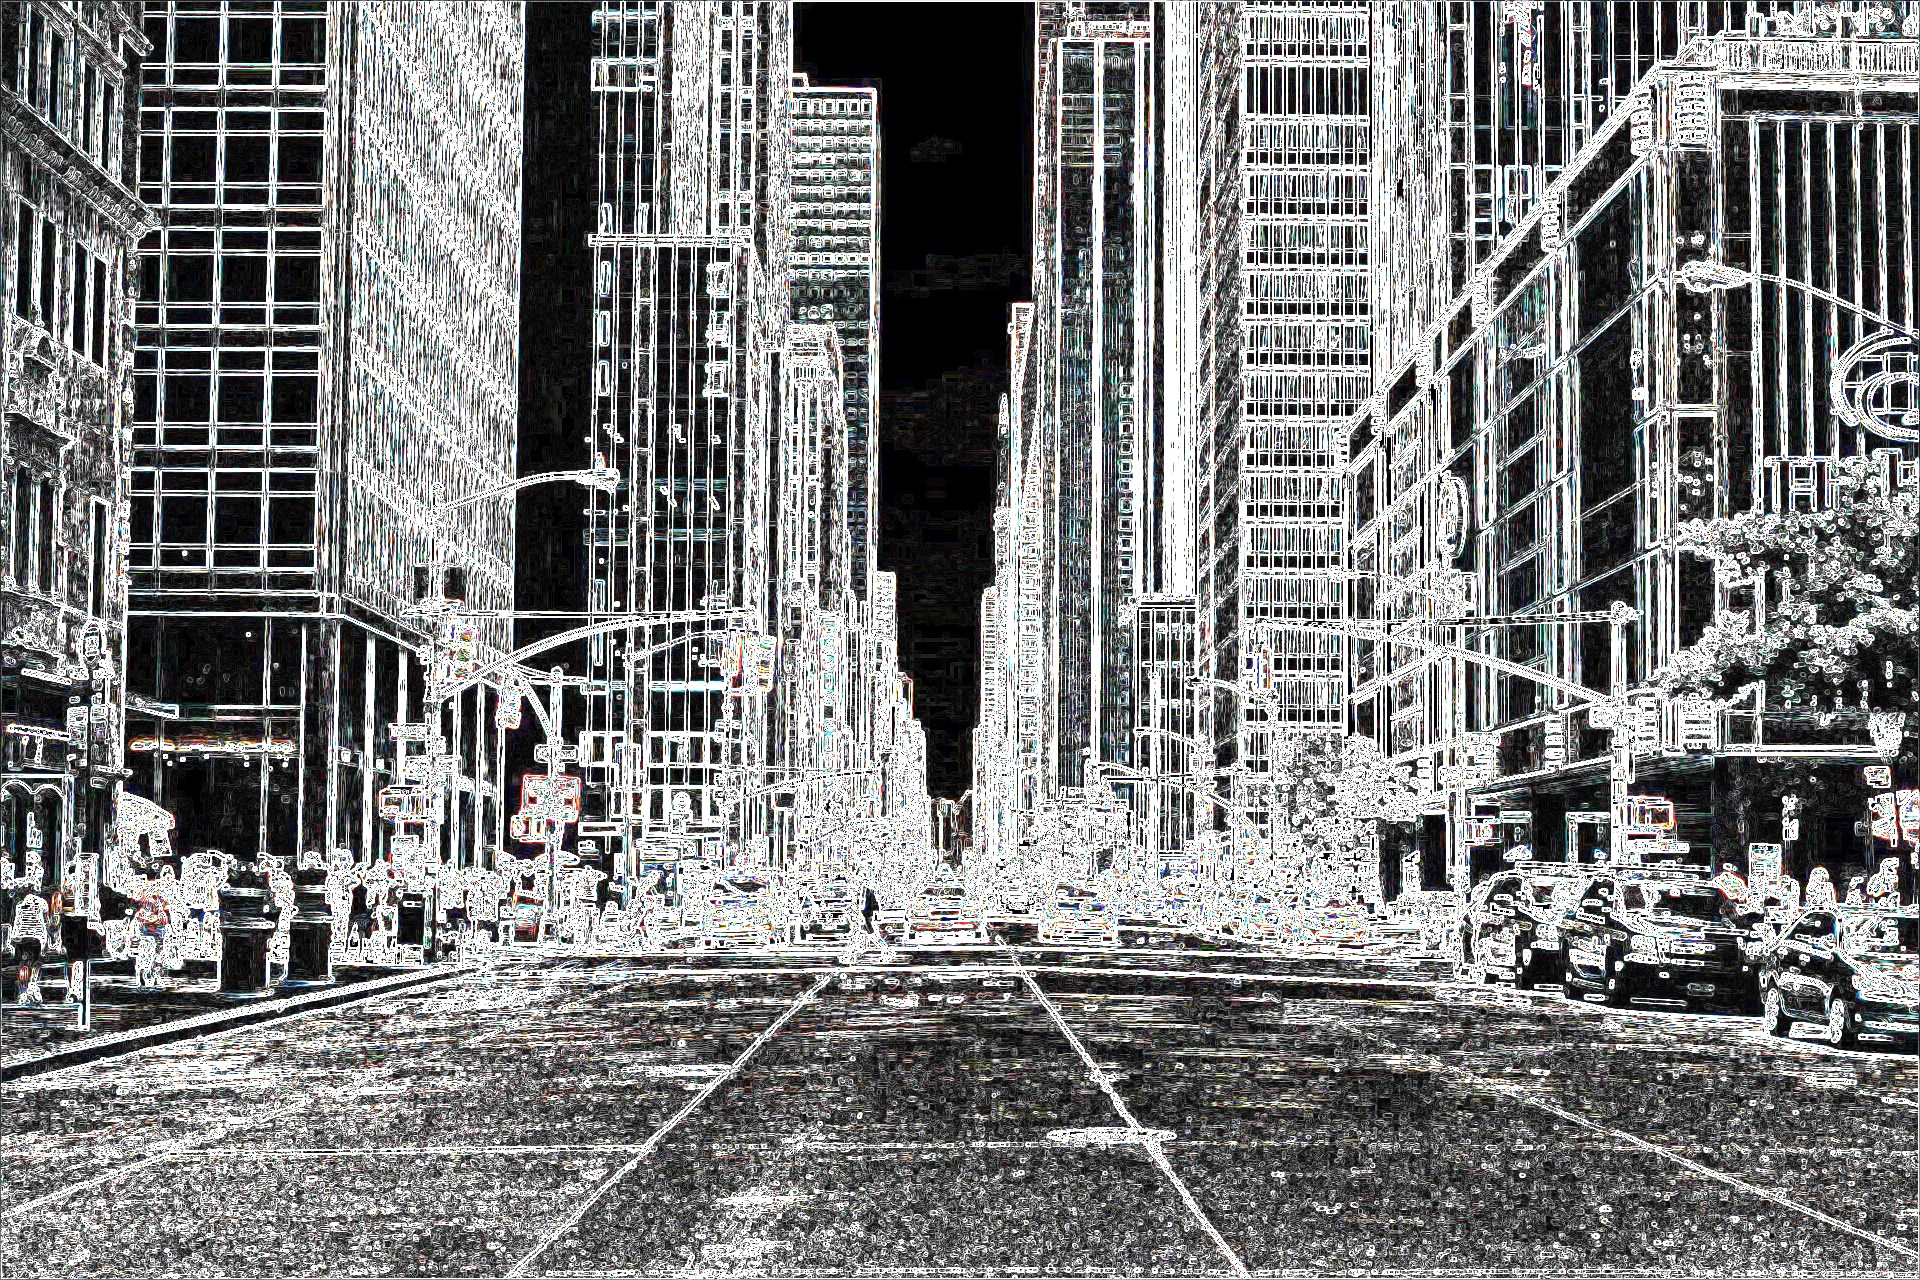
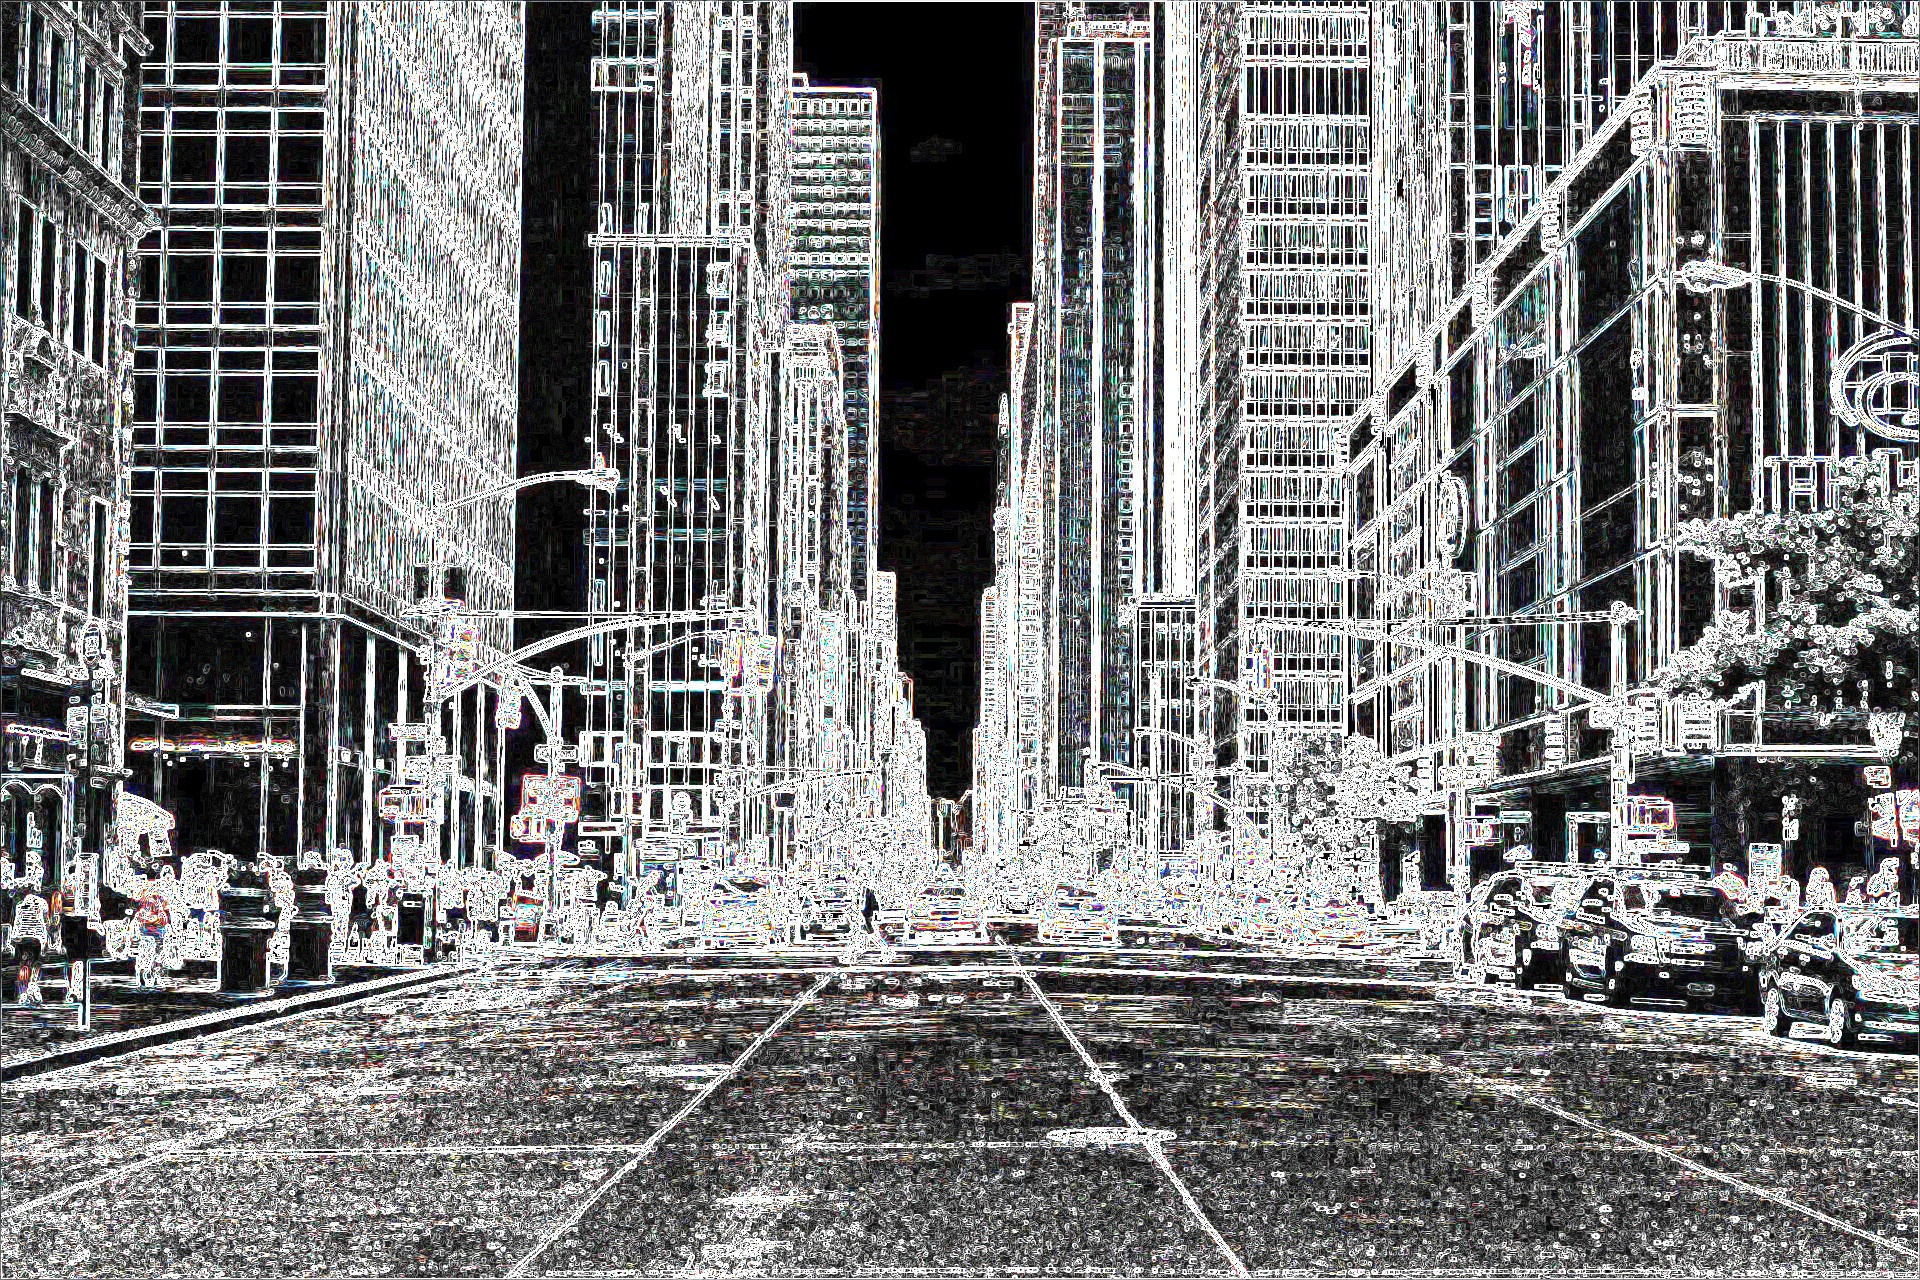
build: configure android environment

diff --git a/cli/src/main.cpp b/cli/src/main.cpp
@@ -11,7 +11,7 @@ int main(int argc, char** argv)
     }
 
     try {
-        std::unique_ptr<Image> pImage = ImageProcessor::loadImage("/Users/atovarpardo/Documents/Code/Sobel/media/input_sample.jpg");
+        std::unique_ptr<Image> pImage = ImageProcessor::loadImage("C:/CODE2/Sobel/media/input_sample.jpg");
         if(pImage == nullptr) return -1;
 
         std::unique_ptr<FilterBase> pFilter = FilterSelector::createFilter(filterName);
@@ -22,7 +22,7 @@ int main(int argc, char** argv)
             std::cerr << "Null filter selected" << std::endl;
         }
 
-        if(!ImageProcessor::saveImage("/Users/atovarpardo/Documents/Code/Sobel/media/output_sample.jpg", outputImage)) return -1;
+        if(!ImageProcessor::saveImage("C:/CODE2/Sobel/media/output_sample.jpg", outputImage)) return -1;
 
     } catch (const std::exception& e) {
         std::cerr << "Execution error: " << e.what() << std::endl;

diff --git a/README.md b/README.md
@@ -12,19 +12,7 @@ Sobel project can be compiled with
 ```bash
 mkdir build
 cd build
-conan install .. --output-folder=. -g CMakeDeps -g CMakeToolchain --build=missing -r conancenter
-cmake .. -DCMAKE_POLICY_DEFAULT_CMP0091="NEW" -DCMAKE_TOOLCHAIN_FILE="build/generators/conan_toolchain.cmake" -G "Visual Studio 17 2022" 
+cmake .. -DCMAKE_BUILD_TYPE=Release
 cmake --build . --config Release
 ```
-
-## Compilation without Conan (Using system libraries)
-
-If Conan is not used, one must install the dependencies on his own. It is: OpenCV [...].
-Sobel can be compiled with
-LINUX:
-```bash
-mkdir build && cd build
-cmake .. -DCMAKE_PREFIX_PATH="$(brew --prefix opencv);$(brew --prefix libomp)"
-cmake --build . --config Release
-```
-WINDOWS:
+- Cli -> For console application; .exe file generated @ build/cli/(build_type)/SobelCli.exe